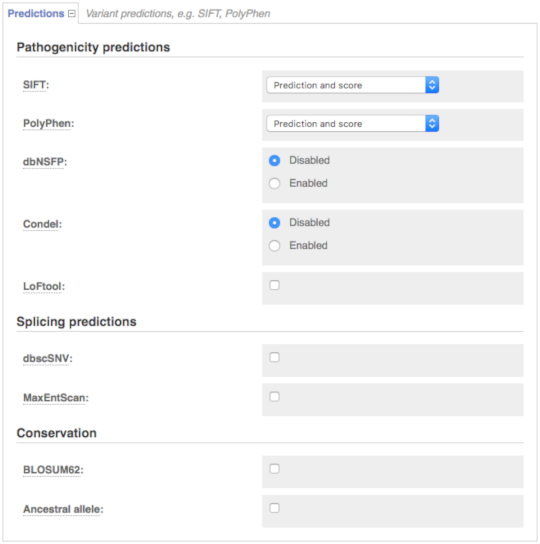
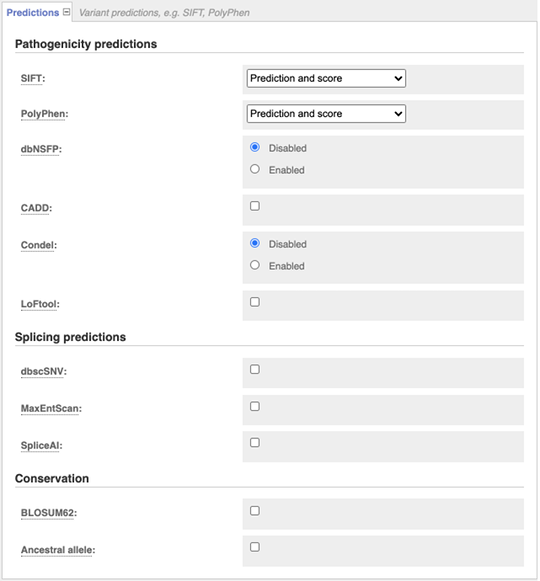
Fix DisGeNET web VEP (#366)

diff --git a/docs/htdocs/info/docs/tools/vep/online/input.html b/docs/htdocs/info/docs/tools/vep/online/input.html
@@ -323,6 +323,14 @@ enter your data and alter various options.</p>
                     <b>Note:</b> This web functionality is not reporting cancer phenotypic data this release. However the cancer phenotypic data is available in the command line version.
                   </p>
                 </li>
+
+                <li><b>DisGeNET</b>
+                  <p>
+                    Report Variant-Disease-PMID associations from the <a href="https://www.disgenet.org/" rel="external">DisGeNET</a> database. This functionality is provided by the
+                    <a href="https://github.com/Ensembl/VEP_plugins/blob/release/[[SPECIESDEFS::ENSEMBL_VERSION]]/DisGeNET.pm">DisGeNET</a> plugin.<br />
+                    <b>Note:</b> This web functionality is reporting the unique disease names.
+                  </p>
+                </li>
             </ul>
         </div>
     </div>
@@ -396,7 +404,16 @@ enter your data and alter various options.</p>
                   Equivalent to the VEP plugin <a rel="external" 
                   href="https://github.com/Ensembl/VEP_plugins/blob/release/[[SPECIESDEFS::ENSEMBL_VERSION]]/MaxEntScan.pm">MaxEntScan</a>.</p>
                 </li>
-                
+
+                <li><b>SpliceAI</b>
+                  <p>
+                    Pre-calculated annotations from <a href="https://github.com/Illumina/SpliceAI" rel="external">SpliceAI</a> a deep neural network,
+                    developed by Illumina, Inc that predicts splice junctions from an arbitrary pre-mRNA transcript sequence. Used for non-commercial purposes.
+                    This functionality is provided by the
+                    <a href="https://github.com/Ensembl/VEP_plugins/blob/release/[[SPECIESDEFS::ENSEMBL_VERSION]]/SpliceAI.pm">SpliceAI</a> plugin.<br />
+                  </p>
+                </li>
+
                 <hr />
                 
                 <li><b>BLOSUM62</b>
